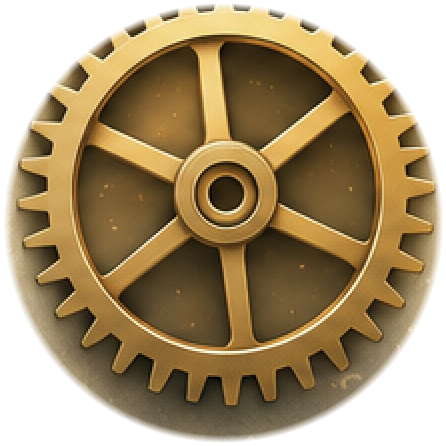
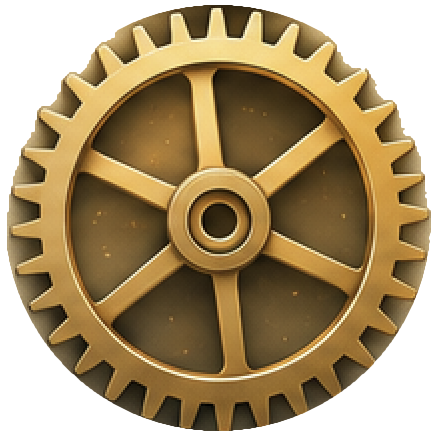
Header: Zahnraeder auf echte Nabe zentriert, Silhouetten-Rotoren; 1875 Coming-soon-Kachel

diff --git a/index.html b/index.html
@@ -62,9 +62,11 @@ body{
 .tw{position:absolute;width:6px;height:6px;border-radius:50%;pointer-events:none;opacity:0;z-index:2;background:radial-gradient(circle,#fffdf2,#ffe9ad 45%,rgba(255,214,120,0) 72%);animation:twk 4.5s ease-in-out infinite}
 @keyframes twk{0%,100%{opacity:0;transform:scale(.3)}50%{opacity:.95;transform:scale(1.1)}}
 .rotor{position:absolute;transform:translate(-50%,-50%);transform-origin:50% 50%;z-index:1;pointer-events:none;will-change:transform}
-.r1{left:75.789%;top:82.988%;width:15.779%;animation:rot 26s linear infinite}
-.r2{left:86.028%;top:88.543%;width:7.733%;animation:rotrev 13.5s linear infinite;filter:drop-shadow(4px 6px 7px rgba(90,70,40,.32))}
-.r3{left:91.266%;top:83.975%;width:4.908%;animation:rot 8.6s linear infinite;filter:drop-shadow(3px 4px 5px rgba(90,70,40,.32))}
+.patch{position:absolute;transform:translate(-50%,-50%);z-index:0;pointer-events:none}
+.p1{left:75.838%;top:81.410%;width:14.333%}
+.r1{left:75.838%;top:81.410%;width:14.333%;animation:rot 26s linear infinite}
+.r2{left:86.054%;top:87.711%;width:7.560%;animation:rotrev 13.5s linear infinite}
+.r3{left:91.283%;top:83.447%;width:4.798%;animation:rot 8.6s linear infinite}
 @keyframes rot{from{transform:translate(-50%,-50%) rotate(0deg)}to{transform:translate(-50%,-50%) rotate(360deg)}}
 @keyframes rotrev{from{transform:translate(-50%,-50%) rotate(360deg)}to{transform:translate(-50%,-50%) rotate(0deg)}}
 @media(prefers-reduced-motion:reduce){.tw{animation:none}.shine{display:none}
@@ -251,9 +253,10 @@ body{
       <img class="hero-img" src="abu_hero2.jpg?v=3" alt="Kopf aus goldenen Zahnrädern, die die ABU-Themen bilden">
       <div class="shine"></div>
       <div class="tw" style="left:60%;top:15%"></div><div class="tw" style="left:83%;top:24%;animation-delay:1.6s"></div><div class="tw" style="left:72%;top:38%;animation-delay:2.8s"></div><div class="tw" style="left:82%;top:55%;animation-delay:.9s"></div><div class="tw" style="left:70%;top:62%;animation-delay:3.3s"></div>
-      <img class="rotor r1" src="abu_gear_dot.png?v=3" alt="" aria-hidden="true">
-      <img class="rotor r2 rev" src="abu_gear_solo.png?v=3" alt="" aria-hidden="true">
-      <img class="rotor r3" src="abu_gear_solo.png?v=3" alt="" aria-hidden="true">
+      <img class="patch p1" src="abu_gear_patch.png?v=5" alt="" aria-hidden="true">
+      <img class="rotor r1" src="abu_gear_solo.png?v=5" alt="" aria-hidden="true">
+      <img class="rotor r2" src="abu_gear_solo.png?v=5" alt="" aria-hidden="true">
+      <img class="rotor r3" src="abu_gear_solo.png?v=5" alt="" aria-hidden="true">
     </div>
     <div class="hero-text">
       <div class="eyebrow">HKV Aarau · Allgemeinbildung</div>
@@ -394,6 +397,16 @@ body{
         <span class="k-aktion">Tool öffnen <span class="pfeil">→</span></span>
         <img class="k-deko" src="kachel_hydrant.png?v=4" alt="" onerror="this.style.display=&#39;none&#39;">
       </a>
+
+      <div class="karte" data-kat="lernen" data-wip aria-disabled="true">
+        <span class="wip-ribbon">🚧 Coming soon</span>
+        <div class="k-kopf">
+          <span class="k-thema">Lernspiel</span>
+        </div>
+        <div class="k-titel">1875</div>
+        <p class="k-text">Das nächste Adventure im Stil von «Der Kauf» – aktuell in Entwicklung.</p>
+        <span class="wip-tag">👷 In Entwicklung – bald hier</span>
+      </div>
 
       <a class="karte" href="slp_karte.html" data-kat="lernen">
         <div class="k-thema">Lehrplan · ABU</div>
